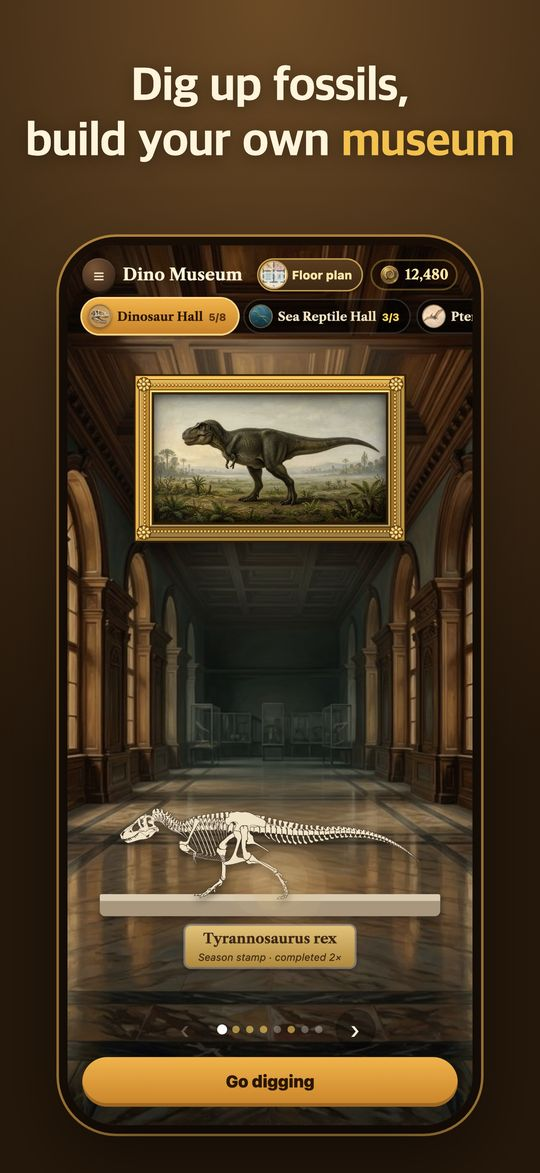
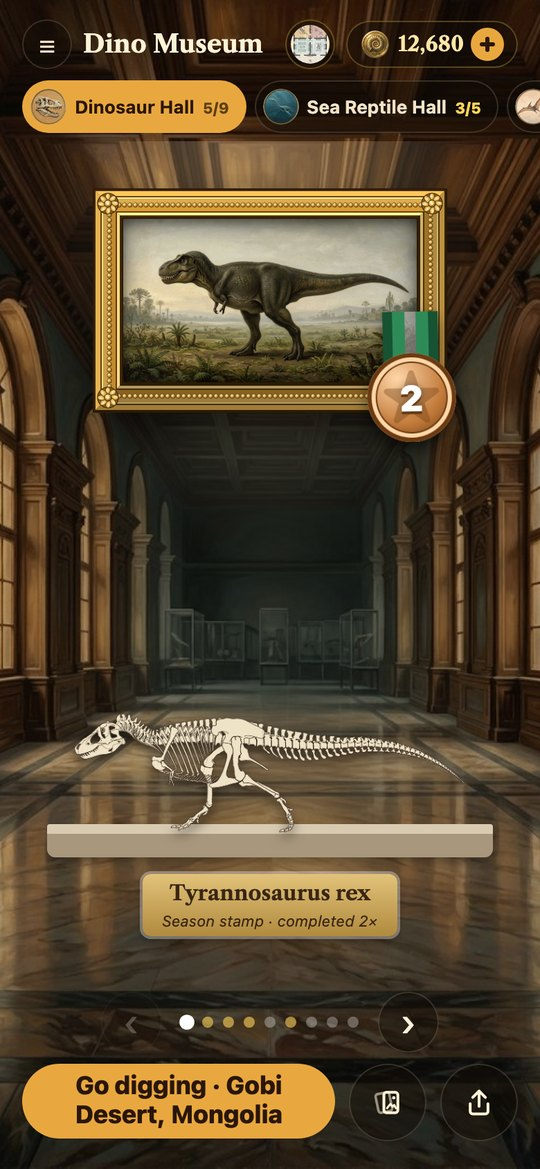
Game pages: new screenshots of the current games (plain screens instead of captioned store images; Starfall's new UI)

diff --git a/games/fossildig.html b/games/fossildig.html
@@ -34,7 +34,7 @@
     <p class="lead">Grab your pickaxe and become a paleontologist. Every dig site hides fossil bones under the soil. The numbers on dug squares tell you how many rocks are nearby, so you can work out where it is safe to dig. Hit a rock and your pickaxe takes a knock; two knocks and the dig is over.</p>
     <section class="gstory"><h2>Why we made it</h2><p>Back in university, I used to stay up all night playing Minesweeper. I had a feeling I wasn&#x27;t the only dad who missed it: a few numbers on the screen, and you work out where the next safe square is.</p><p>So I wanted to make it into a game we could play right beside our kids. The mines became rocks, and under the ground there are real dinosaur fossils to dig up.</p></section>
     <h2 class="shots-title">Screenshots</h2>
-    <div class="phones"><figure class="phone" style="--r:-2deg"><img src="../assets/games/fossildig/en-1.jpg" alt="Your museum with a T. rex on display" width="540" height="1173" loading="lazy"></figure><figure class="phone" style="--r:1.5deg"><img src="../assets/games/fossildig/en-2.jpg" alt="A dig: numbers show how many rocks are nearby" width="540" height="1173" loading="lazy"></figure><figure class="phone" style="--r:-1deg"><img src="../assets/games/fossildig/en-3.jpg" alt="Four parts make a whole Stegosaurus" width="540" height="1173" loading="lazy"></figure><figure class="phone" style="--r:2deg"><img src="../assets/games/fossildig/en-4.jpg" alt="The museum floor plan and its visitors" width="540" height="1173" loading="lazy"></figure></div>
+    <div class="phones"><figure class="phone" style="--r:-2deg"><img src="../assets/games/fossildig/en-1.jpg" alt="Your museum with a T. rex on display" width="540" height="1169" loading="lazy"></figure><figure class="phone" style="--r:1.5deg"><img src="../assets/games/fossildig/en-2.jpg" alt="A dig: numbers show how many rocks are nearby" width="540" height="1169" loading="lazy"></figure><figure class="phone" style="--r:-1deg"><img src="../assets/games/fossildig/en-3.jpg" alt="Four parts make a whole Stegosaurus" width="540" height="1169" loading="lazy"></figure><figure class="phone" style="--r:2deg"><img src="../assets/games/fossildig/en-4.jpg" alt="The museum floor plan and its visitors" width="540" height="1169" loading="lazy"></figure></div>
     <div class="parts"><section class="part"><h2>What you collect</h2><ul><li>17 real prehistoric animals: Tyrannosaurus, Triceratops, Stegosaurus, Velociraptor, Pteranodon, the woolly mammoth and more</li><li>Each dig uncovers one part: skull, body, legs or tail. Find all four and the skeleton comes together, with a painting and a fun fact</li><li>Medals for completing animals again in harder seasons, and golden fossils</li></ul></section><section class="part"><h2>Build your museum</h2><ul><li>Every finished skeleton goes on display in your own museum</li><li>Visitors come to see your collection and pay for tickets: the more you show, the more they come</li><li>The floor plan shows which hall is the most popular</li></ul></section><section class="part"><h2>Dig around the world</h2><ul><li>Real fossil sites: Western North America, the Gobi Desert, the Jurassic seas of Europe, the Western Interior Seaway and the Ice Age lands</li><li>Each site has seasons with more rocks and more bones</li><li>A Daily Dig with the same ground for everyone</li><li>New sites open with dig permits bought with the coins your museum earns</li></ul></section><section class="part"><h2>Fair and friendly</h2><ul><li>Every board can be solved by logic, no guessing needed</li><li>No ads between digs, ever: only a small banner at the bottom of the screen in the free version, and videos only when you choose them</li><li>Coins are earned in the game and never sold; nothing you buy depends on luck</li><li>Plays completely offline</li></ul></section><section class="part"><h2>Fossil Dig Pro (one-time purchase)</h2><ul><li>Three more dig sites right away: sea reptiles, pterosaurs and Ice Age giants</li><li>No banner ad, rewards without watching ads, and a coin gift every day</li></ul></section></div>
     <section class="part links">
       <h2>Help and privacy</h2>

diff --git a/games/starfall.html b/games/starfall.html
@@ -34,7 +34,7 @@
     <p class="lead">Starfall is a calm, colorful puzzle where every stage is a real star. Drop groups of three stars, line up three or more of the same color, and set off chains. Win a stage and that star lights up in its constellation, in its true color, with its real distance from Earth.</p>
     <section class="gstory"><h2>Why we made it</h2><p>I made this one because I wanted to play Hexa again, a game I loved as a kid. So, honestly, there&#x27;s a lot of me in it.</p><p>I also hoped it could give people who love the night sky the simple joy of collecting constellations, one by one. I&#x27;d love for that feeling to come through when you play.</p></section>
     <h2 class="shots-title">Screenshots</h2>
-    <div class="phones"><figure class="phone" style="--r:-2deg"><img src="../assets/games/starfall/en-1.jpg" alt="Match falling stars" width="540" height="1080" loading="lazy"></figure><figure class="phone" style="--r:1.5deg"><img src="../assets/games/starfall/en-2.jpg" alt="A star lit in its real color" width="540" height="1080" loading="lazy"></figure><figure class="phone" style="--r:-1deg"><img src="../assets/games/starfall/en-3.jpg" alt="The story of Orion" width="540" height="1080" loading="lazy"></figure><figure class="phone" style="--r:2deg"><img src="../assets/games/starfall/en-4.jpg" alt="Tonight&#x27;s Sky from your city" width="540" height="1080" loading="lazy"></figure></div>
+    <div class="phones"><figure class="phone" style="--r:-2deg"><img src="../assets/games/starfall/en-1.jpg" alt="The home screen: a starry night and a telescope" width="540" height="1169" loading="lazy"></figure><figure class="phone" style="--r:1.5deg"><img src="../assets/games/starfall/en-2.jpg" alt="Match falling stars" width="540" height="1169" loading="lazy"></figure><figure class="phone" style="--r:-1deg"><img src="../assets/games/starfall/en-3.jpg" alt="The story of Orion" width="540" height="1169" loading="lazy"></figure><figure class="phone" style="--r:2deg"><img src="../assets/games/starfall/en-4.jpg" alt="Tonight&#x27;s Sky from your city" width="540" height="1169" loading="lazy"></figure></div>
     <div class="parts"><section class="part"><h2>Constellation journey</h2><ul><li>18 constellations across the four seasons: Orion, the Big Dipper, Scorpius, Cassiopeia and more</li><li>Every star is a stage, and star colors follow real star temperatures: blue is hottest, red is coolest</li><li>Finish a constellation to watch its lines appear and read its story</li><li>Special stages based on real facts: Algol&#x27;s eclipses dim the board, Mizar&#x27;s double stars count twice, meteor showers rain down, and the Seven Sisters hide in the Pleiades</li></ul></section><section class="part"><h2>Learn the real sky</h2><ul><li>Tonight&#x27;s Sky shows where your constellations are right now from your city</li><li>My Night Sky collects everything you have lit on one star map</li><li>The Constellation Book keeps every myth, fact and star</li></ul></section><section class="part"><h2>Friendly for everyone</h2><ul><li>Row Comet, Column Comet and Black Hole items, earned by playing</li><li>Classic mode that gets faster level by level</li><li>Plays offline, in 10 languages, with no interstitial ads, ever</li></ul></section><section class="part"><h2>Starfall Pro (one-time purchase)</h2><ul><li>No banner ads; continue and preview the next pieces without watching videos</li><li>Southern Sky pack: the Southern Cross, Centaurus with Alpha Centauri, Carina with Canopus, and the Southern Triangle</li><li>Eastern Sky pack: the Northern Dipper with its old star names, and the Four Symbols of the 28 lunar mansions</li></ul></section><section class="part"><h2>Real data</h2><ul><li>Star positions come from the Yale Bright Star Catalog; distances and facts were checked against current sources</li></ul></section></div>
     <section class="part links">
       <h2>Help and privacy</h2>

diff --git a/games/evolution2048.html b/games/evolution2048.html
@@ -34,7 +34,7 @@
     <p class="lead">The 2048 you love, where every tile is alive. Swipe to slide the board. When two of the same tiles meet, they merge and evolve: bacteria become jellyfish, fish crawl onto land, dinosaurs rule, and finally a human appears on the 2048 tile. Every new stage comes with a quick fun fact.</p>
     <section class="gstory"><h2>Why we made it</h2><p>There was a time when I was on a plane for work almost every day. Without internet, about the only thing I could do up there was play 2048.</p><p>I kept thinking that a game you play offline like that could be more fun, and leave you knowing something new. So the numbers became living things, and every merge is a step in the story of evolution.</p></section>
     <h2 class="shots-title">Screenshots</h2>
-    <div class="phones"><figure class="phone" style="--r:-2deg"><img src="../assets/games/evolution2048/en-1.jpg" alt="Merge tiles and watch life evolve" width="540" height="1173" loading="lazy"></figure><figure class="phone" style="--r:1.5deg"><img src="../assets/games/evolution2048/en-2.jpg" alt="A fun fact at every stage" width="540" height="1173" loading="lazy"></figure><figure class="phone" style="--r:-1deg"><img src="../assets/games/evolution2048/en-3.jpg" alt="The free Gems theme" width="540" height="1173" loading="lazy"></figure><figure class="phone" style="--r:2deg"><img src="../assets/games/evolution2048/en-4.jpg" alt="Make your own theme with emoji or photos" width="540" height="1173" loading="lazy"></figure></div>
+    <div class="phones"><figure class="phone" style="--r:-2deg"><img src="../assets/games/evolution2048/en-1.jpg" alt="Merge tiles and watch life evolve" width="540" height="1169" loading="lazy"></figure><figure class="phone" style="--r:1.5deg"><img src="../assets/games/evolution2048/en-2.jpg" alt="A fun fact at every stage" width="540" height="1169" loading="lazy"></figure><figure class="phone" style="--r:-1deg"><img src="../assets/games/evolution2048/en-3.jpg" alt="The free Gems theme" width="540" height="1169" loading="lazy"></figure><figure class="phone" style="--r:2deg"><img src="../assets/games/evolution2048/en-4.jpg" alt="Make your own theme with emoji or photos" width="540" height="1169" loading="lazy"></figure></div>
     <div class="parts"><section class="part"><h2>Three free themes</h2><ul><li>Evolution: from bacteria to humans</li><li>Gems: from plain quartz to a dazzling diamond</li><li>Classic: pure numbers for 2048 purists</li></ul></section><section class="part"><h2>Make it yours</h2><ul><li>Create your own themes with your photos, emoji and names</li><li>Turn your family, your pets or your favorite snacks into an evolution chain</li><li>Photos are cropped right in the app and never leave your phone</li></ul></section><section class="part"><h2>Play your way</h2><ul><li>Board sizes from a tough 3x3 to a relaxing 6x6 marathon</li><li>A new Daily Challenge every day: the same board for everyone, with a streak to keep</li><li>Evolution items: Mutate a tile, wipe one out with a Meteor, or mix up the board with a Twister</li></ul></section><section class="part"><h2>Fair and friendly</h2><ul><li>No ads between games, ever: just a small banner in the free version</li><li>Optional videos only when you choose them, to refill undos or items</li><li>Plays completely offline</li><li>17 badges and lifetime stats</li></ul></section><section class="part"><h2>Evolution 2048 Pro (one-time purchase)</h2><ul><li>Pro Packs: Space, Fruits, Animals, Vehicles, City and To the Moon, with more on the way</li><li>Customize every stage of your themes</li><li>Unlimited undo and no banner ad</li></ul></section></div>
     <section class="part links">
       <h2>Help and privacy</h2>

diff --git a/games/petalgarden.html b/games/petalgarden.html
@@ -34,7 +34,7 @@
     <p class="lead">A gentle match-three puzzle where every flower bed you finish helps a real flower grow. Swap petals to make lines of three or more, clear the weeds and melt the frost, and watch each flower grow over three beds, from a small plant to full bloom.</p>
     <section class="gstory"><h2>Why we made it</h2><p>My mother and my mother-in-law both love flowers. Watching them, I wished there were a game they could simply enjoy.</p><p>One where no ads get in the way between puzzles, and where the fun of the game comes with the joy of growing flowers, one at a time.</p></section>
     <h2 class="shots-title">Screenshots</h2>
-    <div class="phones"><figure class="phone" style="--r:-2deg"><img src="../assets/games/petalgarden/en-1.jpg" alt="The home screen and the cottage garden" width="540" height="1020" loading="lazy"></figure><figure class="phone" style="--r:1.5deg"><img src="../assets/games/petalgarden/en-2.jpg" alt="A flower bed: swap petals to make lines" width="540" height="1020" loading="lazy"></figure><figure class="phone" style="--r:-1deg"><img src="../assets/games/petalgarden/en-3.jpg" alt="A flower card with its meaning and story" width="540" height="1020" loading="lazy"></figure><figure class="phone" style="--r:2deg"><img src="../assets/games/petalgarden/en-4.jpg" alt="Today&#x27;s flower, ready to send as a card" width="540" height="1020" loading="lazy"></figure></div>
+    <div class="phones"><figure class="phone" style="--r:-2deg"><img src="../assets/games/petalgarden/en-1.jpg" alt="The home screen and the cottage garden" width="540" height="1169" loading="lazy"></figure><figure class="phone" style="--r:1.5deg"><img src="../assets/games/petalgarden/en-2.jpg" alt="A flower bed: swap petals to make lines" width="540" height="1169" loading="lazy"></figure><figure class="phone" style="--r:-1deg"><img src="../assets/games/petalgarden/en-3.jpg" alt="A flower card with its meaning and story" width="540" height="1169" loading="lazy"></figure><figure class="phone" style="--r:2deg"><img src="../assets/games/petalgarden/en-4.jpg" alt="Today&#x27;s flower, ready to send as a card" width="540" height="1169" loading="lazy"></figure></div>
     <div class="parts"><section class="part"><h2>Real flowers from world gardens</h2><ul><li>360 beds in eight gardens: an English cottage garden, Dutch tulip fields, a Japanese garden, a Mediterranean hillside, desert blooms, a tropical garden, an alpine meadow and an East Asian garden</li><li>120 real flowers, painted by hand, each with its Victorian flower meaning and a true story</li><li>Seasons that follow your own hemisphere</li></ul></section><section class="part"><h2>Send a flower</h2><ul><li>Send any flower you have grown as a card: choose the paper and lettering and write your own message</li><li>Good-morning cards, and birthday cards with the flower of each birth month</li><li>Water your garden once a day and watch it shimmer</li></ul></section><section class="part"><h2>At your own pace</h2><ul><li>No timers, no lives, no pressure</li><li>Plays offline, in 10 languages</li></ul></section><section class="part"><h2>Petal Garden Pro (one-time purchase)</h2><ul><li>No banner ads, double coins and a daily gift of each helper</li><li>All four Pro gardens; they can also be opened one by one with coins earned by playing</li></ul></section></div>
     <section class="part links">
       <h2>Help and privacy</h2>
